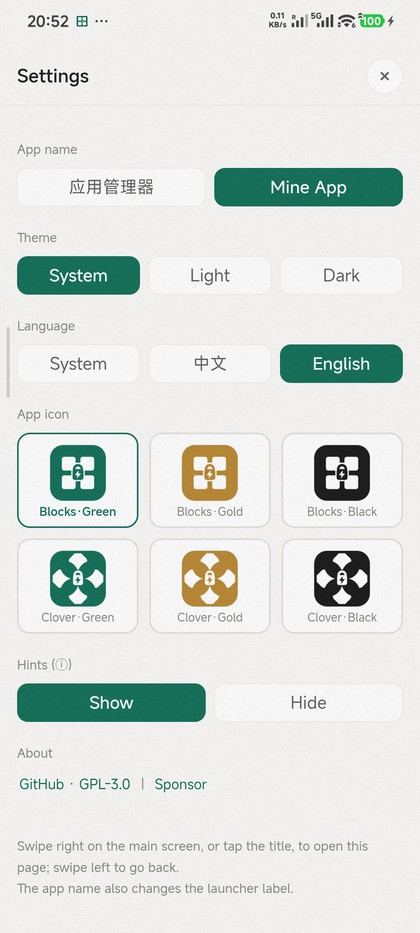
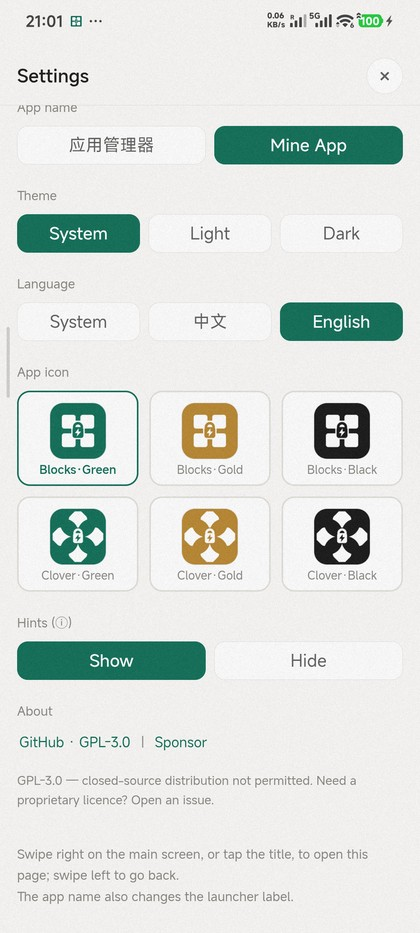
设置页「关于」底部补许可说明：GPL-3.0、禁止闭源分发、闭源合作可提 Issue
- 中文：本项目以 GPL-3.0 开源，禁止闭源分发；如有闭源合作需求，可以提 Issue
- 英文：GPL-3.0 — closed-source distribution not permitted. Need a proprietary licence? Open an issue.
- 11.5px 次级灰字，放在两个链接下方
- settings.jpg / settings-en.jpg 同步重拍

diff --git a/termux/webui/server.py b/termux/webui/server.py
@@ -529,6 +529,7 @@ user-select:none;-webkit-tap-highlight-color:transparent;transition:background .
 .ext{color:#0f6e56;text-decoration:none;padding:6px 2px;border-radius:6px}
 .ext:active{background:var(--track)}
 .ext-sep{color:var(--ink3);font-size:12px}
+.ext-note{font-size:11.5px;color:var(--ink3);line-height:1.6;padding:0 0 10px}
 .refresh{transform-origin:50% 50%;will-change:transform}
 .refresh.spinning{color:#0f6e56}
 .aot-lb{flex:none;font-size:11px;color:var(--ink3);font-family:ui-monospace,monospace;
@@ -691,6 +692,7 @@ color:var(--ink3);cursor:pointer;user-select:none}
       <span class="ext-sep">|</span>
       <a class="ext" id="lnkFund" href="https://github.com/henry-97/MineApp#sponsor">打赏</a>
     </div>
+    <div class="ext-note" data-t="extLicense">本项目以 GPL-3.0 开源，禁止闭源分发；如有闭源合作需求，可以提 Issue</div>
     <div class="info-note" style="border-top:0"><span data-t="setEntry">左滑主界面或点标题可再次进入本页。</span><br>
       <span data-t="setNameNote">应用名称会同时改变桌面图标的名称。</span></div>
   </div>
@@ -797,6 +799,7 @@ var I18N = {
     perfTip: '性能模式',
     secTip: '界面提示（ⓘ）', tipShow: '显示', tipHide: '隐藏',
     secAbout: '关于', extRepo: 'GitHub GPL-3.0 开源', extFund: '打赏',
+    extLicense: '本项目以 GPL-3.0 开源，禁止闭源分发；如有闭源合作需求，可以提 Issue',
     secIcon: '应用图标',
     icSq: '方块', icCl: '四叶草', icG: '墨绿', icY: '金色', icK: '黑色',
     tIconOk: '图标已切换，桌面可能需要几秒刷新', tIconFail: '图标切换失败',
@@ -885,6 +888,7 @@ var I18N = {
     perfTip: 'Performance',
     secTip: 'Hints (ⓘ)', tipShow: 'Show', tipHide: 'Hide',
     secAbout: 'About', extRepo: 'GitHub · GPL-3.0', extFund: 'Sponsor',
+    extLicense: 'GPL-3.0 — closed-source distribution not permitted. Need a proprietary licence? Open an issue.',
     secIcon: 'App icon',
     icSq: 'Blocks', icCl: 'Clover', icG: 'Green', icY: 'Gold', icK: 'Black',
     tIconOk: 'Icon changed; the launcher may take a few seconds', tIconFail: 'Failed to change icon',

diff --git a/appmanager/tools/gen_manifest.py b/appmanager/tools/gen_manifest.py
@@ -20,7 +20,7 @@ HEAD = '''<?xml version="1.0" encoding="utf-8"?>
 <!-- 由 tools/gen_manifest.py 生成，不要手改；改完跑一次 gen_manifest.py。 -->
 <manifest xmlns:android="http://schemas.android.com/apk/res/android"
     package="com.henry.appmanager"
-    android:versionCode="42"
+    android:versionCode="44"
     android:versionName="1.3.2">
 
     <uses-sdk android:minSdkVersion="26" android:targetSdkVersion="35" />
